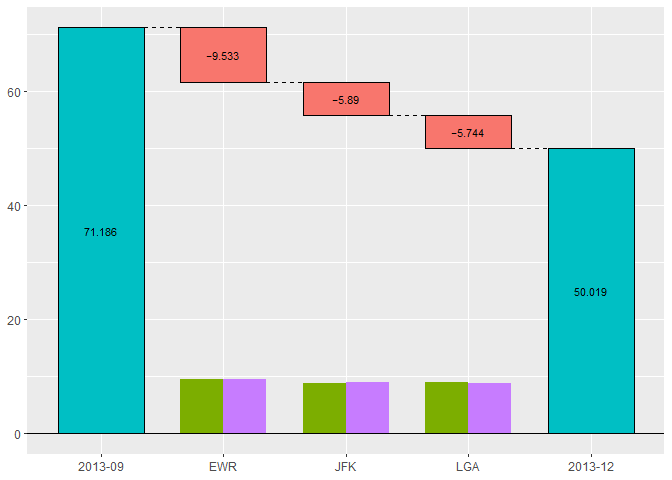
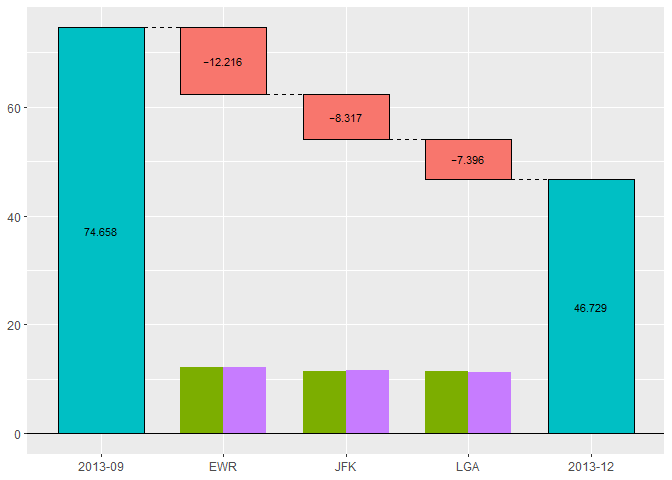
change to better handle continuous values

diff --git a/README.md b/README.md
@@ -34,41 +34,41 @@ library(dplyr)
 library(nycflights13)
 
 data <- flights |> 
-  filter(!is.na(dep_delay)) |>
-  mutate(on_time = dep_delay <= 0)  # on time
+  filter(!is.na(arr_delay)) |>
+  mutate(on_time = arr_delay <= 0)  # arrived on time
 
-data |> select(year, month, day, origin, dest, carrier, on_time) |> head()
-#> # A tibble: 6 × 7
-#>    year month   day origin dest  carrier on_time
-#>   <int> <int> <int> <chr>  <chr> <chr>   <lgl>  
-#> 1  2013     1     1 EWR    IAH   UA      FALSE  
-#> 2  2013     1     1 LGA    IAH   UA      FALSE  
-#> 3  2013     1     1 JFK    MIA   AA      FALSE  
-#> 4  2013     1     1 JFK    BQN   B6      TRUE   
-#> 5  2013     1     1 LGA    ATL   DL      TRUE   
-#> 6  2013     1     1 EWR    ORD   UA      TRUE
+data |> select(year, month, day, origin, dest, carrier, dep_delay, on_time) |> head()
+#> # A tibble: 6 × 8
+#>    year month   day origin dest  carrier dep_delay on_time
+#>   <int> <int> <int> <chr>  <chr> <chr>       <dbl> <lgl>  
+#> 1  2013     1     1 EWR    IAH   UA              2 FALSE  
+#> 2  2013     1     1 LGA    IAH   UA              4 FALSE  
+#> 3  2013     1     1 JFK    MIA   AA              2 FALSE  
+#> 4  2013     1     1 JFK    BQN   B6             -1 TRUE   
+#> 5  2013     1     1 LGA    ATL   DL             -6 TRUE   
+#> 6  2013     1     1 EWR    ORD   UA             -4 FALSE
 
 data1 <- data |> filter(month == 9L)
 data2 <- data |> filter(month == 12L)
 
 data1 |> summarise(on_time_rate = mean(on_time)) |> pull(on_time_rate)
-#> [1] 0.7118575
+#> [1] 0.7465753
 data2 |> summarise(on_time_rate = mean(on_time)) |> pull(on_time_rate)
-#> [1] 0.5001844
+#> [1] 0.4672835
 ```
 
 ``` r
 library(Theseus)
 
-ship <- create_ship(data1, data2, on_time, labels = c("2013-09", "2013-12"))
+ship <- create_ship(data1, data2, y = on_time, labels = c("2013-09", "2013-12"))
 
 ship$table(origin)
 #> # A tibble: 3 × 8
 #>   origin contrib    n1    n2    x1    x2 rate1 rate2
 #>   <chr>    <dbl> <int> <int> <int> <int> <dbl> <dbl>
-#> 1 EWR    -0.0953  9407  9445  6457  3895 0.686 0.412
-#> 2 JFK    -0.0589  8816  8963  6167  4659 0.700 0.520
-#> 3 LGA    -0.0574  8899  8702  6683  5006 0.751 0.575
+#> 1 EWR    -0.122   9362  9410  7172  3901 0.766 0.415
+#> 2 JFK    -0.0832  8788  8923  6497  4332 0.739 0.485
+#> 3 LGA    -0.0740  8860  8687  6496  4393 0.733 0.506
 ```
 
 ``` r
@@ -82,3 +82,9 @@ ship$plot_flip(carrier)
 ```
 
 <img src="man/figures/README-unnamed-chunk-4-1.png" width="500" />
+
+``` r
+ship$plot_flip(dep_delay)
+```
+
+<img src="man/figures/README-unnamed-chunk-5-1.png" width="500" />
